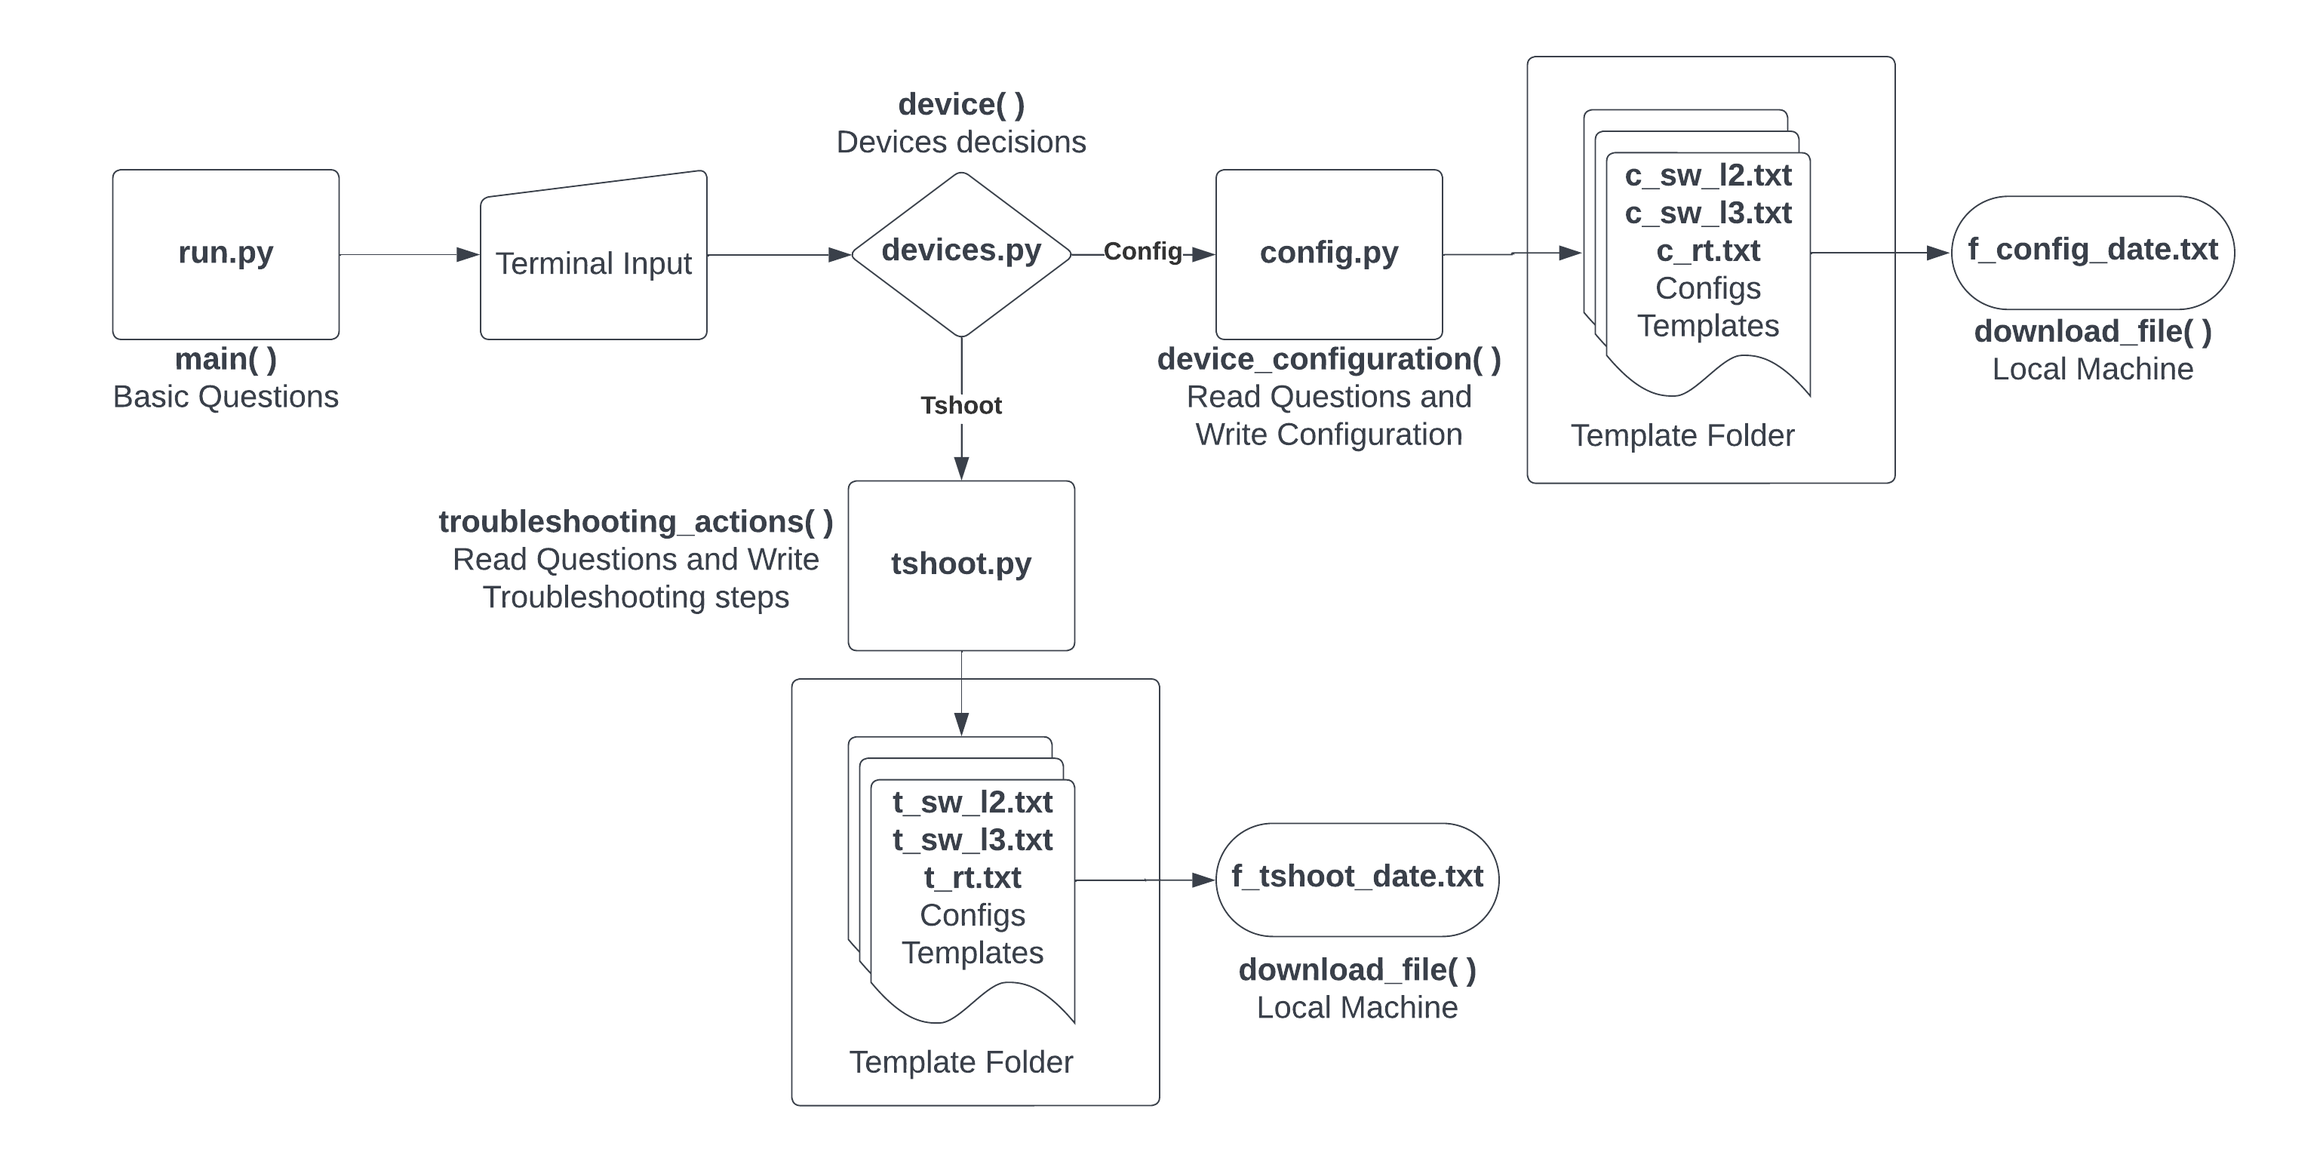
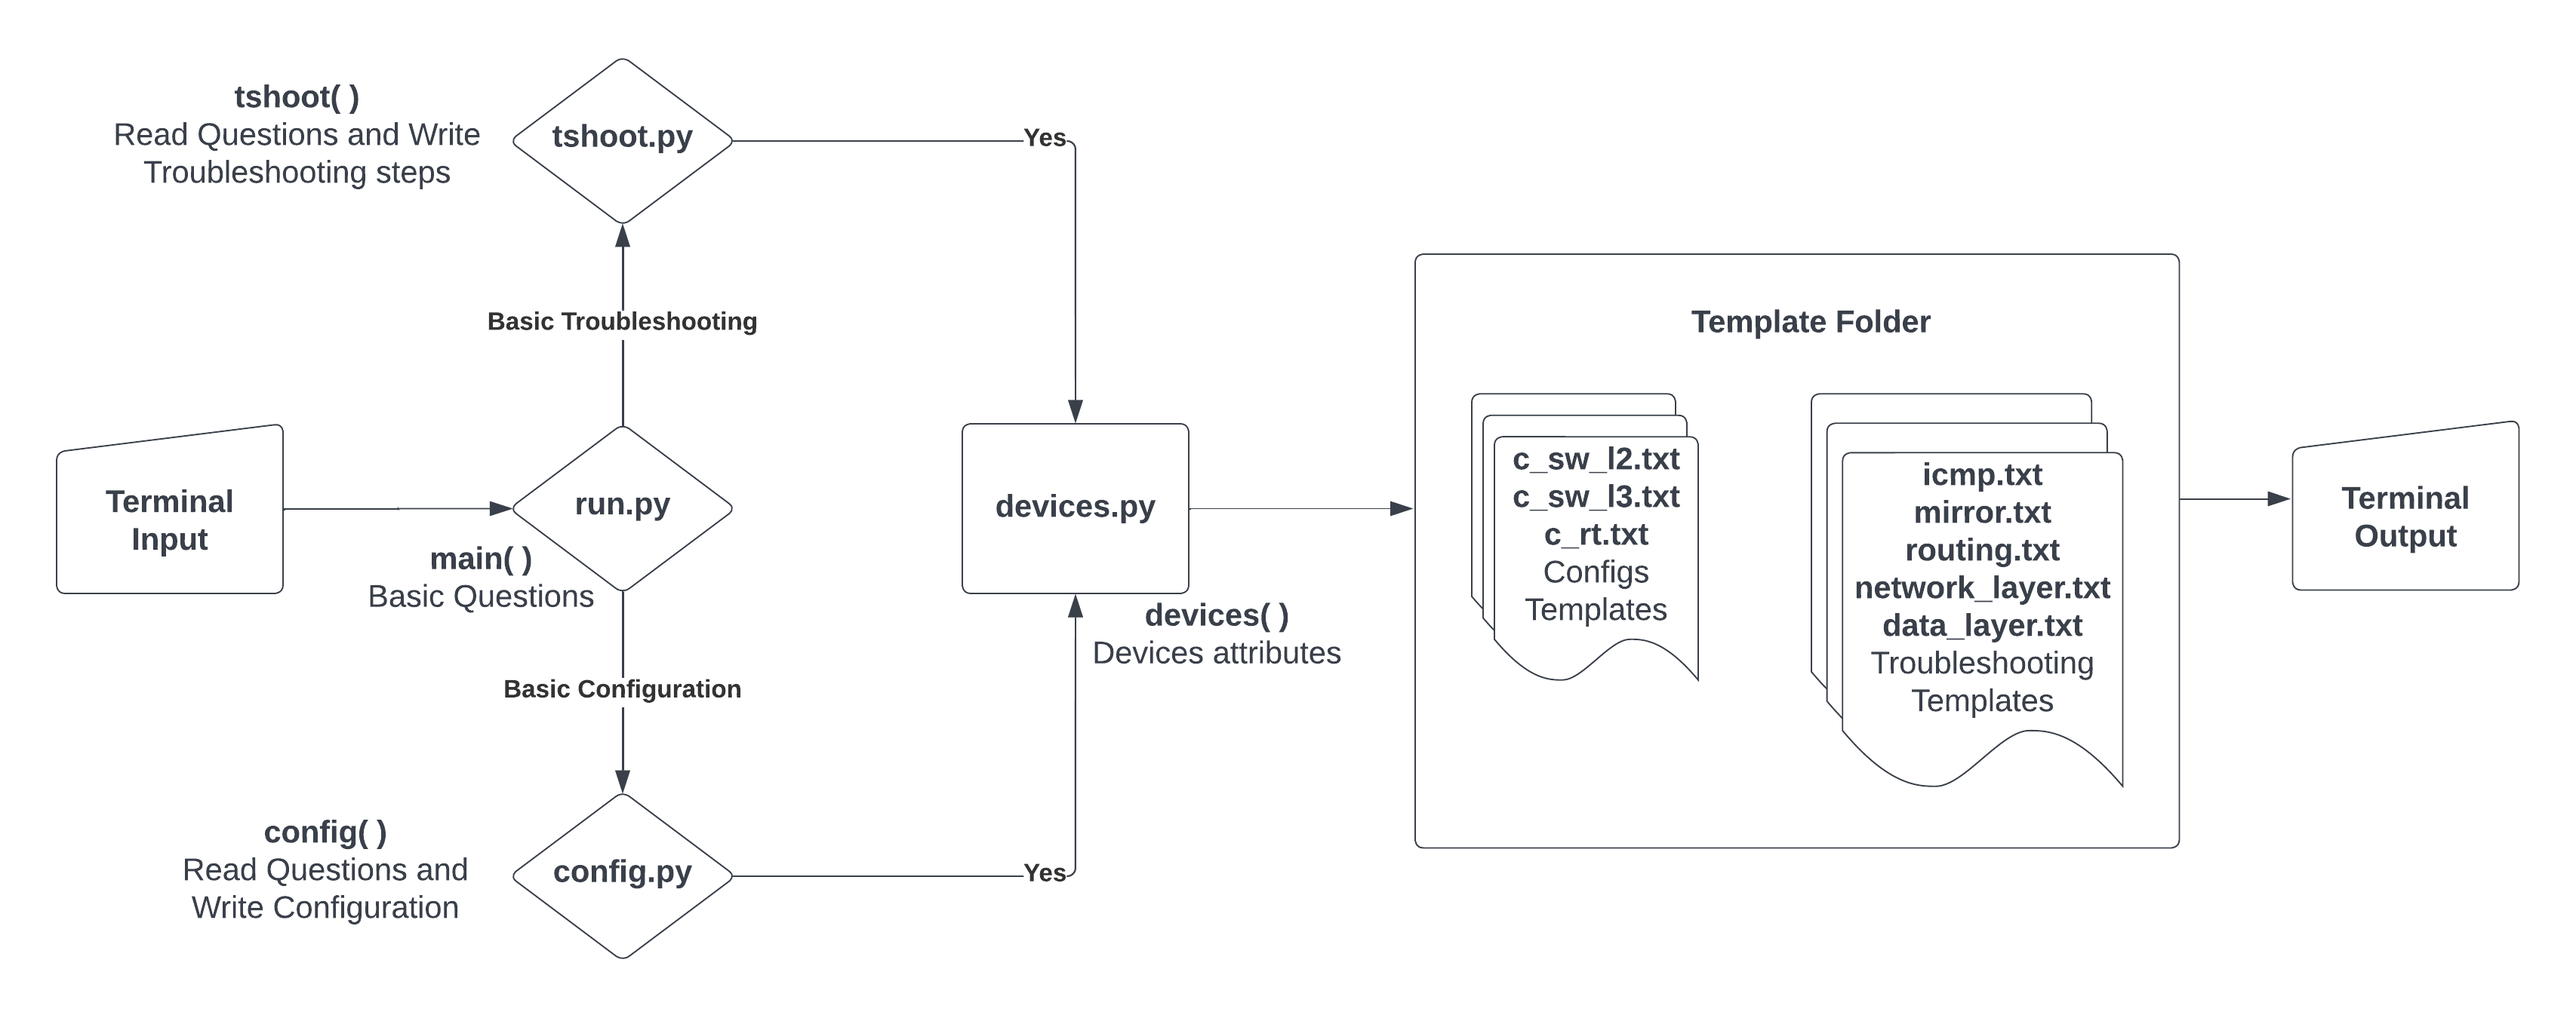
docs: finish readme.md

diff --git a/run.py b/run.py
@@ -39,7 +39,8 @@ def basic_questions():
             if validate_answers(type_device):
                 clear_terminal()
                 break
-        break
+        else:
+            break
 
     # Loop to keep code running while validate false
     while True:
@@ -56,7 +57,8 @@ def basic_questions():
             if validate_answers(layer):
                 clear_terminal()
                 break
-        break
+        else:
+            break
 
     if netoperator == '1' and type_device == '1' and layer == '1':
         operator = config.ConfQuestionsSWL2()

diff --git a/README.md b/README.md
@@ -1,42 +1,212 @@
-![NetOperator logo](./assets/images/NetOperator_logo.png)
-
 # NetOperator
 
-This is a tool that can help Network Engineers to create basic configuration to network devices as Switches and Routers. With NetOperator you can create a file with instructions for a basic troubleshooting for devices Layer 2 and Layer 3.
+<img alt="NetOperator Logo" src="./assets/images/NetOperator_logo.png" width="50%">
 
-As you can see this tool is designated to Network Professionals and have specific terms that is not familiar to everyone.
+This tool can help Network Engineers create basic configurations to set up Switches and Routers (Network Devices). 
 
-[Click here to access the tool](https://the-hunters.herokuapp.com/)
+With NetOperator you can create instructions for basic troubleshooting for network devices depending on your answers.
+
+As you can see this tool is designated for Network Professionals and have specific terms that are not familiar to everyone.
+
+Currently, the tool has 2 vendors available for configuration and troubleshooting (Cisco and Datacom).
+
+You can configure Switches in Layer2, Layer3 and Routers.
+
+I hope this tool can help the day-by-day Network Engineer.
+
+[Click here to access the tool](https://netoperator.herokuapp.com/)
 
 ## User Experience (UX)
+---
+
+### Vision
+    The idea for this tool is to provide an application that can help Network Engineers with day-by-day.
+
+### Aims
+    To provide users an application they can go to when they want:
+
+    - Creating a basic configuration to set up Network Devices (Switches and Routers).
+    - Creating a basic troubleshooting commands to find and fix issues with Network Devices.
+
+### Target Audience
+    Network Professionals:
+
+    - Network Engineer
+    - Network Security Engineer
+    - Network Administrator
+    - Help Desk Technical
+    - Network Architect
+    - Network Specialist
+    - Field Support
+    - IT Engineer
+    - Desktop Engineer
+
+### User Stories
+
+1. I want to be able to set up a Switch Layer2/Layer3 or Router with a basic configuration.
+
+2. I want to be able to set up a basic configuration in a network device for a Sr. Engineer execute a remote access and complete the set up.
+
+3. I want to be able to do a troubleshooting in network device to find a cause of issue and fix it.
+
+4. I want to be able to change a basic configuration with a command script.
+
+5. I want to be able to copy and paste the configuration from the application to the device.
+
+6. I want to be able to use valid IPs and Subnet Mask in the configuration.
+
+7. I want to be able to provide a basic configuration with security standard commands for anyone execute the first set up.
+
 
 ### User Flow Chart
-![User Flow Chart](./assets/images/Flow%20-%20NetOperator.png)
 
-### Dev Flow Chart
-![Dev Flow Chart](./assets/images/App_Flow%20-%20NetOperator.png)
+<img alt="User Flow Chart" src="./assets/images/Flow%20-%20NetOperator.png" width="70%">
+
+### Program Flow Chart
+
+<img alt="Program Flow Chart" src="./assets/images/App_Flow%20-%20NetOperator.png" width="70%">
+
+### Design 
+
+#### First Page
+<img alt="First Page" src="./assets/images/first.png" width="50%">
+
+#### Second Page for Configuration
+<img alt="Second Page for Configuration" src="./assets/images/second_conf.png" width="50%">
+
+#### If put wrong answer
+<img alt="If put wrong answer" src="./assets/images/ifwrong.png" width="50%">
+
+#### Providing answers to the questions
+<img alt="Providing answers to the questions" src="./assets/images/answers.png" width="50%">
+
+#### Printing Answers 
+<img alt="Printing Answers" src="./assets/images/printing.png" width="50%">
+
+#### Configuration Provided
+<img alt="Configuration provided" src="./assets/images/config.png" width="50%">
 
 
-* Your code must be placed in the `run.py` file
-* Your dependencies must be placed in the `requirements.txt` file
-* Do not edit any of the other files or your code may not deploy properly
+## Features 
 
-## Creating the Heroku app
+Here describes the main features of the website and what the user can expect when viewing ~
 
-When you create the app, you will need to add two buildpacks from the _Settings_ tab. The ordering is as follows:
+### Existing Features:
 
-1. `heroku/python`
-2. `heroku/nodejs`
+ - Basic configuration for Switch Layer 2 Cisco and Datacom
+ - Basic configuration for Switch Layer 3 Cisco and Datacom
+ - Basic configuration for Router Cisco and Datacom
+ - Basic troubleshooting for Network Devices: ICMP, Routing, Network layer and others
+ - Print the config commands and troubleshooting commands in the page for copy/paste
 
-You must then create a _Config Var_ called `PORT`. Set this to `8000`
+### Future Features:
 
-If you have credentials, such as in the Love Sandwiches project, you must create another _Config Var_ called `CREDS` and paste the JSON into the value field.
+ - Download the commands in a file .txt
+ - More vendors like Aruba, HPE, 3Com and others
+ - More devices configs and troubleshooting commands like Access Points, Firewall and others
+ - More segregation questions and versions of appliances 
 
-Connect your GitHub repository and deploy as normal.
+## Technologies 
+### **Dev Languages Used**
+  
+  - Python
+  
+### **Applications Used**
+  
+  - [GitPod](https://www.gitpod.io/) was used as an online IDE.
+  - [GitHub](https://github.com/) is used to store the projects code and version control.
+  - [Heroku](https://dashboard.heroku.com/) are used to deploy the site.
+  - [Character Count](https://www.charactercountonline.com/older-versions/v2/) was used to add commit with max 50 characteres.
+  - [W3Schools](https://www.w3schools.com/) was used to reference code for Python.
+  - [Lucidchart](https://www.lucidchart.com/) was used to create a user flow and sitemap.
+ 
+## Testing 
 
-## Constraints
+### PEP8
+#### Run.py
+<img alt="First Page" src="./assets/images/run_test.png" width="50%">
 
-The deployment terminal is set to 80 columns by 24 rows. That means that each line of text needs to be 80 characters or less otherwise it will be wrapped onto a second line.
+#### Config.py
+<img alt="First Page" src="./assets/images/config_test.png" width="50%">
 
------
-Happy coding!
+#### Tshoot.py
+<img alt="First Page" src="./assets/images/tshoot_test.png" width="50%">
+
+#### Devices.py
+<img alt="First Page" src="./assets/images/devices_test.png" width="50%">
+
+### Bug
+
+ - No bugs.
+ - I have some difficult some processes for validation and keep questions running while the customer provide the correct answer.
+
+## Deployment 
+
+Deploying the project using Heroku:
+* Visit the [Heroku](https://dashboard.heroku.com/login) site and create an account
+* Click the "New" Button
+* Click the "Create new app" button
+* Provide a name for the app in the App name input field
+* Select your region from the choose region dropdown menu 
+* Click the "Create App" button
+* Once redirected, proceed to the settings tab
+* Click on the "config vars" button
+* Supply a KEY of `PORT` and it's value of `8000`. The click the "add" button
+* Next step is to add Buildpacks, click the "Add Buildpack" button
+* The `python` buildpack needs to be added first then the `nodejs` buildpack
+* Once the buildpacks have completed, go to the deploy screen, once in the deploy screen, select GitHub as the deployment method and connect your GitHub profile
+* Search for the repository that you wish to deploy to Heroku and click "connect"
+* Once your repository is connected to Heroku you can choose to either manually or automatically deploy your app.
+* By selecting automatic deploys, Heroku will build a new version of the app each time a change has been pushed to the repository
+* Manual deploys allow you to build a new version of your app whenever you click manual deploy
+* If your build is successful you will then be able to visit the live site by clicking the link that is provided to you by Heroku
+
+Command to add packages to requirements.txt, `pip3 freeze --local > requirements.txt` 
+
+### Making a Local Clone
+
+1. Log in to GitHub and locate the [GitHub Repository](https://github.com/michaelrfreitas/p3_py_netoperator)
+2. Under the repository name, click "Clone or download".
+3. To clone the repository using HTTPS, under "Clone with HTTPS", copy the link.
+4. Open Git Bash
+5. Change the current working directory to the location where you want the cloned directory to be made.
+6. Type `git clone`, and then paste the URL you copied in Step 3.
+
+    $ `git clone https://github.com/michaelrfreitas/p3_py_netoperator` 
+
+7. Press Enter. Your local clone will be created. 
+
+```shell
+$ git clone https://github.com/michaelrfreitas/p3_py_netoperator
+> Cloning into `CI-Clone`...
+> remote: Counting objects: 10, done.
+> remote: Compressing objects: 100% (8/8), done.
+> remove: Total 10 (delta 1), reused 10 (delta 1)
+> Unpacking objects: 100% (10/10), done.
+```
+
+Alternatively, if using Gitpod, you can click below to create your own workspace using this repository.
+
+You will need to also install all required packages in order to run this application on Heroku, refer to [requirements.txt](requirements.txt)
+* Command to install this apps requirements is `pip3 install -r requirements.txt`
+
+# Credits 
+  ### **Images**
+  The answer images were downloaded from:
+
+  - [Cisco](https://cisco.com/)
+  - [PlanetTechnology](https://planetechusa.com/switch-vs-router-what-is-the-difference/)
+
+  ### **Code/Reference** 
+  - [GeeksforGeeks](https://www.geeksforgeeks.org/python-program-to-validate-an-ip-address/)
+  - [W3Schools](https://www.w3schools.com/python/python_datetime.asp)   
+  - [Code Institute](https://www.CodeInstitute.net)
+  - [DatatoFish](https://datatofish.com/copy-file-python/)
+  - [Real Python](https://realpython.com/working-with-files-in-python/)
+  - [Study Tonight](https://www.studytonight.com/python-howtos/search-and-replace-a-text-in-a-file-in-python)
+  - [StackOverflow](https://stackoverflow.com)
+  
+  
+  ### **Acknowledgment**
+  I'd like to say thank you my mentor [Benjamin Kavanagh](https://github.com/BAK2K3) for his guidance and support throughout my project.
+
